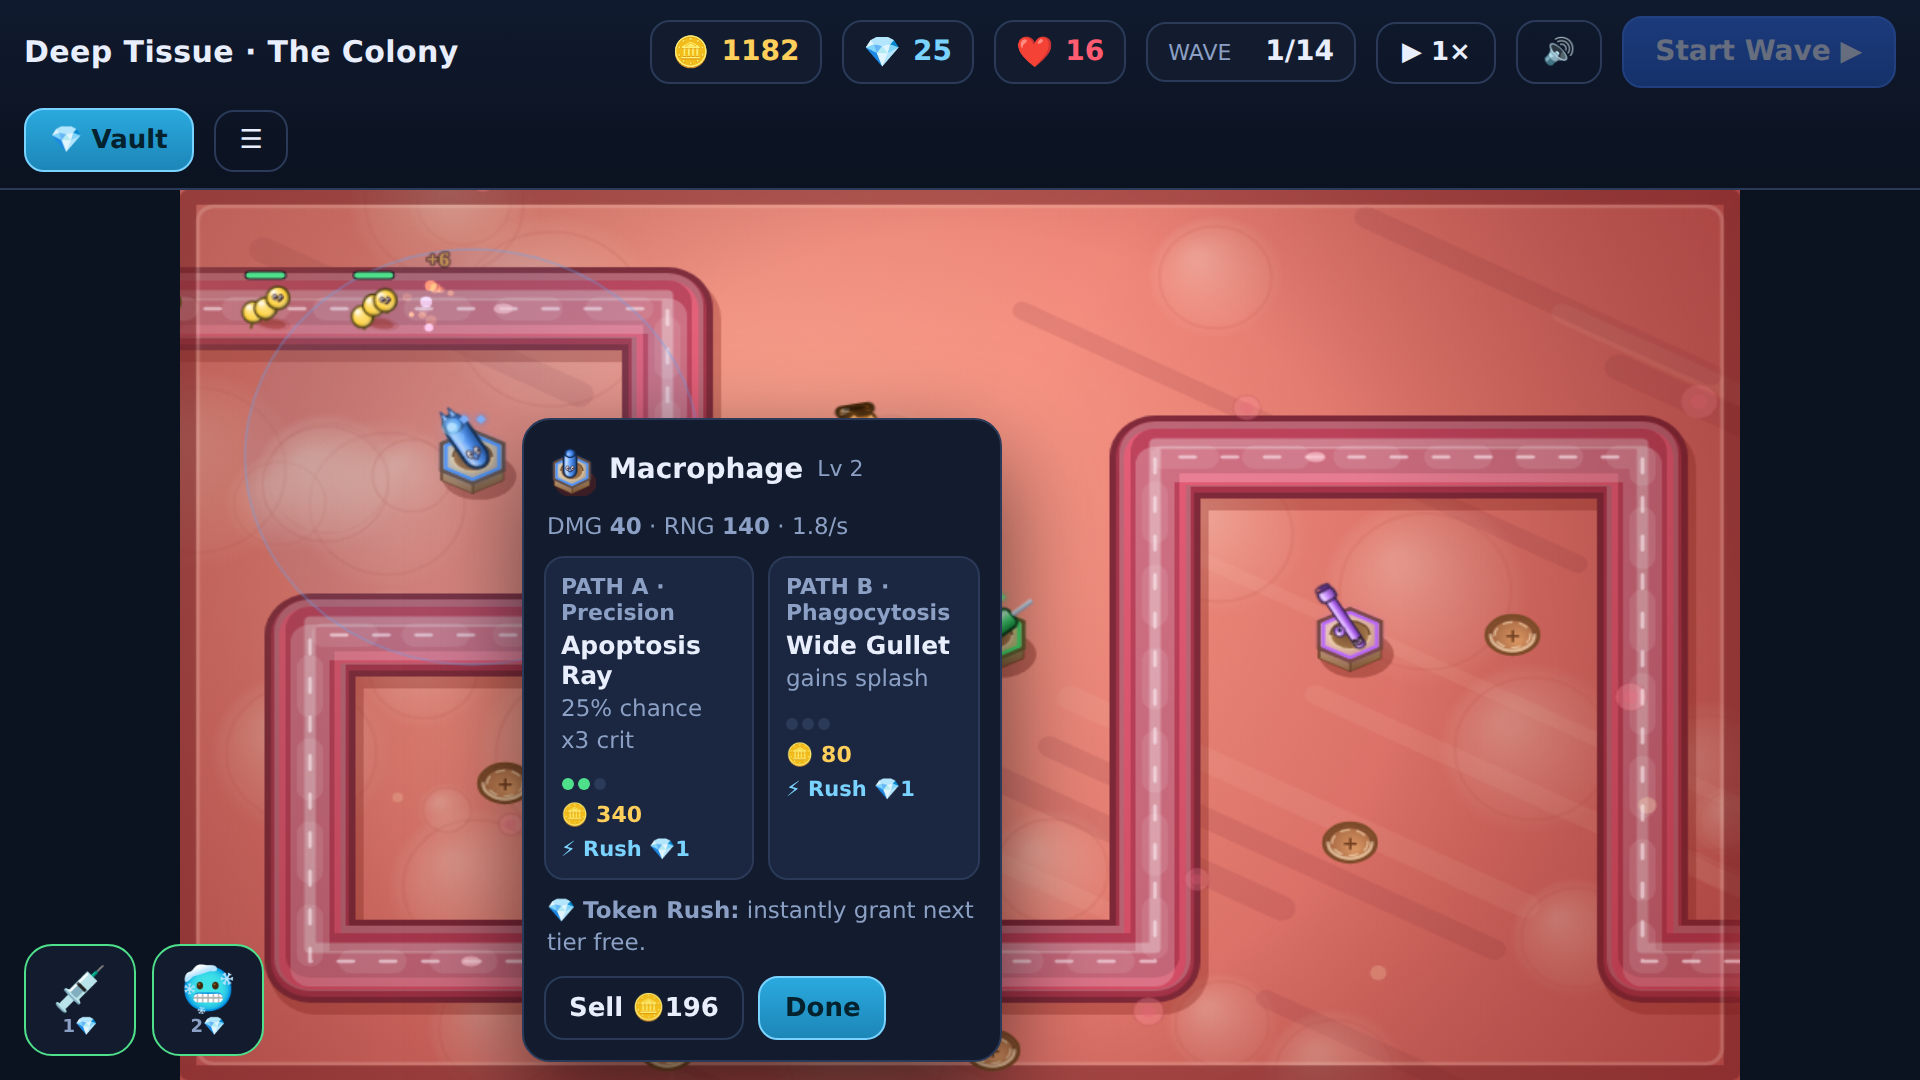
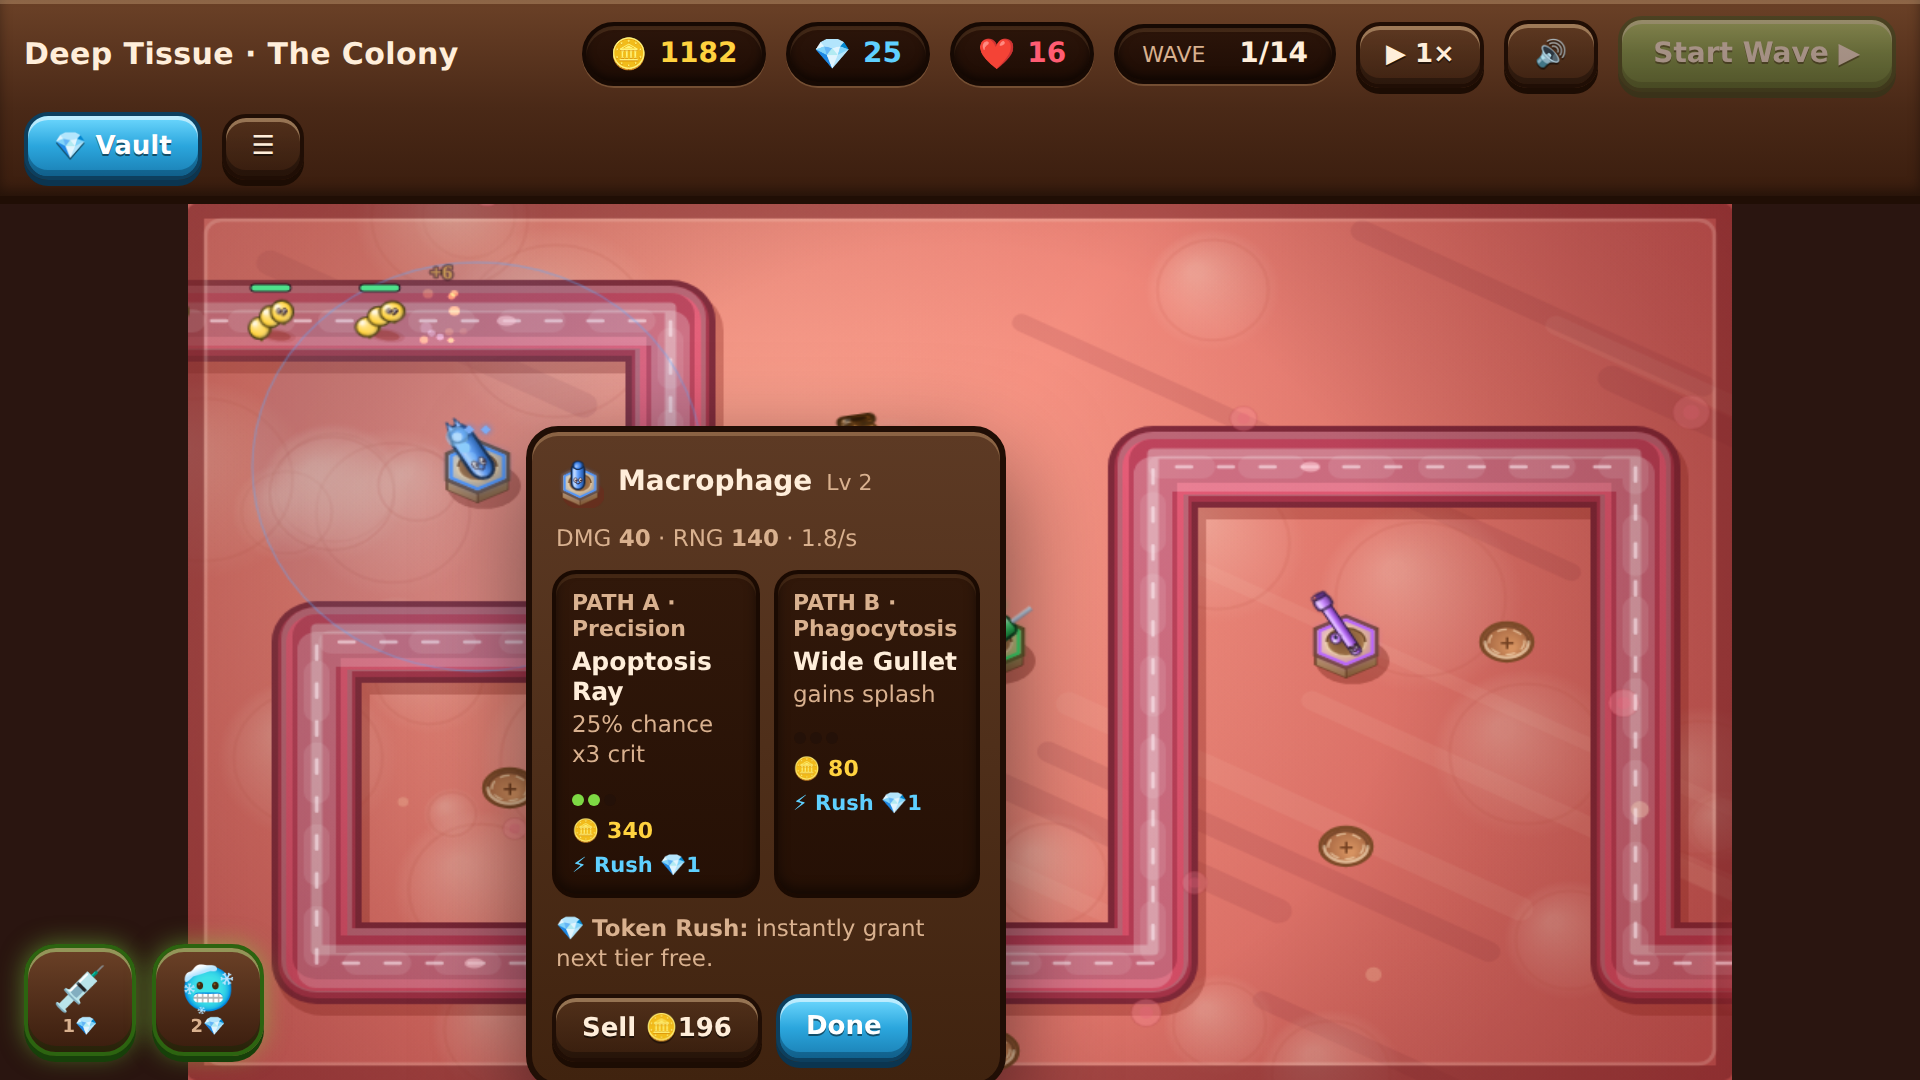
Painted game-chrome UI: carved panels, glossy buttons, badge counters
Fifth pass of the art-gap program - the UI no longer reads as a
website. Pure-CSS skeuomorphic chrome in the CoC style:

- HUD is a carved wooden bar with bevel highlights; stat counters are
  inset badge pills; the wave preview matches
- Buttons are glossy 3D with top shine, inner bevel, and a press-down
  ledge: green primary (Start Wave/Deploy), gold, and blue token
  variants plus carved ghost buttons
- Modals are carved wooden panels with embossed ribbon-plate headers,
  gold section headings, and gold-trimmed story cards; shop items,
  build cards, and upgrade paths are inset carved slots; tags are gold
  badges; toasts and ability buttons match the chrome
- Warm palette variables replace the old dark-navy web theme

All mobile layout checks pass (no overflow portrait/landscape, touch
flow intact), plus full regression and Play suites. Store screenshots
regenerated. SW cache bumped to v12.

Claude-Session: https://claude.ai/code/session_01CBLR6UDHsp9bXg6zzSDAZ5

diff --git a/tower-defense/index.html b/tower-defense/index.html
@@ -21,54 +21,75 @@
 <link href="https://fonts.googleapis.com/css2?family=Outfit:wght@300;400;500;600;700;800&display=swap" rel="stylesheet">
 <style>
   :root{
-    --bg:#0b1220; --panel:#131c2e; --panel2:#1b2740; --line:#2a3a58;
-    --ink:#e8eefc; --muted:#8ba0c4; --gold:#ffcf5c; --token:#7ad3ff;
-    --hp:#ff5c72; --good:#4fe08b; --accent:#5fa9ff; --danger:#ff6b6b;
-    --path:#2b3554; --slot:#22406b;
+    --bg:#2a1510; --panel:#4a2c1c; --panel2:#5d3a24; --line:#241108;
+    --edge:rgba(255,210,150,0.28); --carve:rgba(30,12,4,0.55);
+    --ink:#ffeeda; --muted:#d9b18f; --gold:#ffd23f; --token:#5fd0ff;
+    --hp:#ff5c72; --good:#7ed944; --accent:#5fa9ff; --danger:#ff6b6b;
   }
   *{box-sizing:border-box; -webkit-tap-highlight-color:transparent}
-  html,body{margin:0;height:100%;background:var(--bg);color:var(--ink);
+  html,body{margin:0;height:100%;background:#2a1510;color:var(--ink);
     font-family:'Outfit',system-ui,sans-serif;overflow:hidden;user-select:none}
   #app{position:fixed;inset:0;display:flex;flex-direction:column}
   /* Top HUD */
-  #hud{display:flex;align-items:center;gap:10px;padding:8px 12px;background:linear-gradient(180deg,#101a2e,#0b1220);
-    border-bottom:1px solid var(--line);flex-wrap:wrap}
-  .stat{display:flex;align-items:center;gap:6px;background:var(--panel);border:1px solid var(--line);
-    border-radius:10px;padding:6px 10px;font-weight:600;font-size:14px;min-width:0}
+  #hud{display:flex;align-items:center;gap:10px;padding:8px 12px;
+    background:linear-gradient(180deg,#6b4127 0%,#4a2917 55%,#3a1d0e 100%);
+    border-bottom:4px solid #200e05;
+    box-shadow:inset 0 2px 0 rgba(255,220,170,0.25), inset 0 -3px 6px rgba(0,0,0,0.35);
+    flex-wrap:wrap}
+  .stat{display:flex;align-items:center;gap:6px;
+    background:linear-gradient(180deg,#2c150a,#1e0c04);
+    border:2px solid #160903;border-radius:999px;padding:5px 12px;
+    box-shadow:inset 0 -2px 4px rgba(0,0,0,0.5), inset 0 2px 0 rgba(255,200,130,0.12), 0 1px 0 rgba(255,210,150,0.2);
+    font-weight:800;font-size:14px;min-width:0}
   .stat .ico{font-size:15px}
   .stat.gold{color:var(--gold)} .stat.token{color:var(--token)} .stat.lives{color:var(--hp)}
   .stat small{color:var(--muted);font-weight:500;font-size:11px}
-  #wavePreview{display:flex;align-items:center;gap:8px;background:var(--panel);border:1px solid var(--line);
-    border-radius:10px;padding:4px 10px;min-height:32px}
+  #wavePreview{display:flex;align-items:center;gap:8px;
+    background:linear-gradient(180deg,#2c150a,#1e0c04);border:2px solid #160903;
+    border-radius:999px;padding:4px 12px;min-height:32px;
+    box-shadow:inset 0 -2px 4px rgba(0,0,0,0.5), inset 0 2px 0 rgba(255,200,130,0.12)}
   #wavePreview:empty{display:none}
   #wavePreview .wp{display:flex;align-items:center;gap:3px;font-size:12px;font-weight:700;color:var(--muted)}
   #wavePreview img{display:block}
   #levelName{font-weight:700;font-size:15px;margin-right:auto;letter-spacing:.2px}
-  .btn{cursor:pointer;border:1px solid var(--line);background:var(--panel2);color:var(--ink);
-    border-radius:10px;padding:7px 12px;font-family:inherit;font-weight:600;font-size:13px;transition:.15s}
-  .btn:hover{border-color:var(--accent);transform:translateY(-1px)}
-  .btn:active{transform:translateY(0)}
-  .btn.primary{background:linear-gradient(180deg,#2f6df0,#215bd0);border-color:#3f7dff}
-  .btn.gold{background:linear-gradient(180deg,#caa23c,#a8842b);border-color:#e6c261;color:#1a1405}
-  .btn.token{background:linear-gradient(180deg,#2aa9de,#1d86b8);border-color:#7ad3ff;color:#04212e}
-  .btn.ghost{background:transparent}
-  .btn:disabled{opacity:.4;cursor:not-allowed;transform:none}
+  .btn{cursor:pointer;border:2px solid #200e05;color:var(--ink);
+    background:linear-gradient(180deg,#7a4b2c 0%,#5d3520 50%,#4a2614 100%);
+    border-radius:12px;padding:7px 13px;font-family:inherit;font-weight:800;font-size:13px;
+    text-shadow:0 1px 0 rgba(0,0,0,0.5);
+    box-shadow:inset 0 2px 0 rgba(255,220,170,0.4), inset 0 -3px 0 rgba(0,0,0,0.3), 0 3px 0 #1c0c03;
+    transition:.1s}
+  .btn:hover{filter:brightness(1.12)}
+  .btn:active{transform:translateY(3px);box-shadow:inset 0 2px 0 rgba(255,220,170,0.35), inset 0 -2px 0 rgba(0,0,0,0.25), 0 0 0 #1c0c03}
+  .btn.primary{background:linear-gradient(180deg,#8fe14f 0%,#57b32a 50%,#3d8f18 100%);border-color:#1e4d0b;
+    box-shadow:inset 0 2px 0 rgba(255,255,255,0.5), inset 0 -3px 0 rgba(0,60,0,0.3), 0 3px 0 #17400a;color:#fff}
+  .btn.gold{background:linear-gradient(180deg,#ffe066 0%,#f4b52e 50%,#d1881c 100%);border-color:#7a4d0d;
+    box-shadow:inset 0 2px 0 rgba(255,255,255,0.6), inset 0 -3px 0 rgba(110,60,0,0.35), 0 3px 0 #5e3c09;color:#4a2a05;text-shadow:0 1px 0 rgba(255,240,190,0.6)}
+  .btn.token{background:linear-gradient(180deg,#6fd9ff 0%,#2ba6dd 50%,#1a7fb3 100%);border-color:#0d3f5e;
+    box-shadow:inset 0 2px 0 rgba(255,255,255,0.55), inset 0 -3px 0 rgba(0,40,70,0.35), 0 3px 0 #0b3550;color:#fff}
+  .btn.ghost{background:linear-gradient(180deg,rgba(90,55,32,0.6),rgba(50,26,12,0.6))}
+  .btn:disabled{opacity:.45;cursor:not-allowed;transform:none;filter:grayscale(0.4)}
   /* Stage */
   #stageWrap{flex:1;position:relative;display:flex;align-items:center;justify-content:center;overflow:hidden}
   #stage{background:#e56a5e;touch-action:none;max-width:100%;max-height:100%}
   /* Build/upgrade popover */
-  #popover{position:absolute;z-index:30;width:240px;background:var(--panel);border:1px solid var(--line);
-    border-radius:14px;padding:10px;box-shadow:0 18px 50px rgba(0,0,0,.6);display:none}
+  #popover{position:absolute;z-index:30;width:240px;
+    background:linear-gradient(180deg,#5d3a24,#40230f);
+    border:3px solid #200e05;border-radius:16px;padding:10px;
+    box-shadow:inset 0 2px 0 var(--edge), 0 18px 50px rgba(0,0,0,.55);display:none}
   #popover h4{margin:2px 0 8px;font-size:14px;display:flex;align-items:center;gap:7px}
   .tw-grid{display:grid;grid-template-columns:1fr 1fr;gap:7px}
-  .tw{cursor:pointer;background:var(--panel2);border:1px solid var(--line);border-radius:10px;padding:8px;text-align:center;transition:.12s}
-  .tw:hover{border-color:var(--accent);transform:translateY(-1px)}
+  .tw{cursor:pointer;background:linear-gradient(180deg,#31180a,#251005);
+    border:2px solid #1a0a02;border-radius:12px;padding:8px;text-align:center;transition:.12s;
+    box-shadow:inset 0 -3px 6px rgba(0,0,0,0.45), inset 0 2px 0 rgba(255,200,130,0.1)}
+  .tw:hover{border-color:var(--gold);transform:translateY(-1px)}
   .tw .em{font-size:22px} .tw .nm{font-size:11.5px;font-weight:600;margin-top:2px}
   .tw .cost{font-size:11px;color:var(--gold);font-weight:700}
   .tw.disabled{opacity:.45;pointer-events:none}
   .up-row{display:flex;gap:7px;margin-top:7px}
-  .up-path{flex:1;background:var(--panel2);border:1px solid var(--line);border-radius:10px;padding:8px;cursor:pointer;transition:.12s}
-  .up-path:hover{border-color:var(--accent)}
+  .up-path{flex:1;background:linear-gradient(180deg,#31180a,#251005);
+    border:2px solid #1a0a02;border-radius:12px;padding:8px;cursor:pointer;transition:.12s;
+    box-shadow:inset 0 -3px 6px rgba(0,0,0,0.45), inset 0 2px 0 rgba(255,200,130,0.1)}
+  .up-path:hover{border-color:var(--gold)}
   .up-path .pt{font-size:11px;color:var(--muted);font-weight:600}
   .up-path .pn{font-size:12.5px;font-weight:700;margin:2px 0}
   .up-path .pc{font-size:11px;color:var(--gold);font-weight:700}
@@ -80,29 +101,39 @@
   .pop-actions{display:flex;gap:7px;margin-top:9px}
   /* Modal */
   .modal-bg{position:fixed;inset:0;background:rgba(5,9,18,.78);z-index:60;display:none;align-items:center;justify-content:center;padding:16px}
-  .modal{width:min(560px,96vw);max-height:92vh;overflow:auto;background:linear-gradient(180deg,#16233c,#111a2c);
-    border:1px solid var(--line);border-radius:18px;padding:22px;box-shadow:0 30px 90px rgba(0,0,0,.7)}
-  .modal h2{margin:0 0 4px;font-size:22px} .modal h3{margin:16px 0 8px;font-size:16px;color:var(--accent)}
-  .modal p{color:#cdd9f0;line-height:1.5;font-size:14px}
-  .story-card{background:rgba(95,169,255,.08);border-left:3px solid var(--accent);padding:12px 14px;border-radius:8px;margin:10px 0;font-size:14px;line-height:1.55;color:#dbe6fb}
-  .shop-item{display:flex;align-items:center;gap:12px;background:var(--panel);border:1px solid var(--line);border-radius:12px;padding:12px;margin:8px 0}
+  .modal{width:min(560px,96vw);max-height:92vh;overflow:auto;
+    background:linear-gradient(180deg,#5d3a24 0%,#472a15 45%,#38200e 100%);
+    border:4px solid #200e05;border-radius:20px;padding:22px;
+    box-shadow:inset 0 3px 0 var(--edge), inset 0 -6px 12px rgba(0,0,0,0.35), 0 30px 90px rgba(0,0,0,.7)}
+  .modal h2{margin:0 0 6px;font-size:23px;font-weight:800;text-shadow:0 2px 0 rgba(0,0,0,0.45);
+    display:inline-block;padding:2px 14px;border-radius:10px;
+    background:linear-gradient(180deg,#8a5430,#5d3018);box-shadow:inset 0 2px 0 rgba(255,220,170,0.35), 0 2px 0 #1c0c03}
+  .modal h3{margin:16px 0 8px;font-size:16px;color:var(--gold);text-shadow:0 1px 0 rgba(0,0,0,0.5)}
+  .modal p{color:#f0d9c0;line-height:1.5;font-size:14px}
+  .story-card{background:rgba(30,12,4,0.5);border-left:4px solid var(--gold);padding:12px 14px;border-radius:10px;margin:10px 0;font-size:14px;line-height:1.55;color:#ffe9d0;box-shadow:inset 0 2px 6px rgba(0,0,0,0.4)}
+  .shop-item{display:flex;align-items:center;gap:12px;
+    background:linear-gradient(180deg,#31180a,#251005);
+    border:2px solid #1a0a02;border-radius:14px;padding:12px;margin:8px 0;
+    box-shadow:inset 0 -3px 6px rgba(0,0,0,0.45), inset 0 2px 0 rgba(255,200,130,0.12)}
   .shop-item .big{font-size:28px}
   .shop-item .grow{flex:1} .shop-item .grow b{font-size:15px} .shop-item .grow div{font-size:12px;color:var(--muted)}
   .center{text-align:center} .muted{color:var(--muted)} .gold{color:var(--gold)} .token{color:var(--token)}
-  .tag{display:inline-block;background:var(--panel2);border:1px solid var(--line);border-radius:999px;padding:2px 9px;font-size:11px;color:var(--muted);margin:2px}
+  .tag{display:inline-block;background:linear-gradient(180deg,#ffe066,#dfa22a);border:1px solid #7a4d0d;border-radius:999px;padding:2px 10px;font-size:11px;font-weight:800;color:#4a2a05;margin:2px;box-shadow:inset 0 1px 0 rgba(255,255,255,0.5)}
   #toast{position:absolute;top:14px;left:50%;transform:translateX(-50%);z-index:50;display:flex;flex-direction:column;gap:6px;align-items:center;pointer-events:none}
-  .toast{background:rgba(20,30,50,.95);border:1px solid var(--line);border-radius:10px;padding:8px 14px;font-size:13px;font-weight:600;
+  .toast{background:linear-gradient(180deg,#5d3a24,#3a1e0d);border:2px solid #200e05;border-radius:12px;padding:8px 15px;font-size:13px;font-weight:800;color:var(--ink);text-shadow:0 1px 0 rgba(0,0,0,0.5);box-shadow:inset 0 2px 0 var(--edge), 0 4px 12px rgba(0,0,0,0.5);
     animation:pop .3s ease, fade .4s ease 1.6s forwards}
   @keyframes pop{from{transform:translateY(-10px);opacity:0}to{transform:translateY(0);opacity:1}}
   @keyframes fade{to{opacity:0;transform:translateY(-8px)}}
   #startBtn{font-size:14px;padding:9px 16px}
   .foot{margin-top:14px;font-size:11.5px;color:var(--muted);text-align:center}
   .abilities{position:absolute;left:12px;bottom:12px;z-index:20;display:flex;gap:8px}
-  .ability{width:56px;height:56px;border-radius:14px;background:var(--panel);border:1px solid var(--line);
+  .ability{width:56px;height:56px;border-radius:16px;
+    background:linear-gradient(180deg,#6b4127,#3a1d0e);
+    border:2px solid #200e05;box-shadow:inset 0 2px 0 var(--edge), inset 0 -3px 0 rgba(0,0,0,0.35), 0 3px 0 #1c0c03;
     display:flex;flex-direction:column;align-items:center;justify-content:center;cursor:pointer;position:relative;overflow:hidden}
   .ability .ae{font-size:22px} .ability .al{font-size:9px;color:var(--muted);font-weight:700}
-  .ability .cd{position:absolute;inset:0;background:rgba(8,12,22,.72);display:flex;align-items:center;justify-content:center;font-weight:800;font-size:16px}
-  .ability.ready{border-color:var(--good)}
+  .ability .cd{position:absolute;inset:0;background:rgba(20,8,2,.78);display:flex;align-items:center;justify-content:center;font-weight:800;font-size:16px}
+  .ability.ready{border-color:#2c6410;box-shadow:inset 0 2px 0 rgba(200,255,150,0.45), inset 0 -3px 0 rgba(0,50,0,0.3), 0 3px 0 #17400a, 0 0 12px rgba(126,217,68,0.5)}
   @media (max-width:560px){#levelName{font-size:13px}.stat{padding:5px 8px;font-size:13px}.btn{padding:6px 9px;font-size:12px}}
 </style>
 </head>

diff --git a/tower-defense/sw.js b/tower-defense/sw.js
@@ -1,6 +1,6 @@
 /* Immunopolis service worker: cache-first app shell for offline play.
    Bump CACHE_VERSION on every release that changes any shell file. */
-const CACHE_VERSION = 'immunopolis-v11';
+const CACHE_VERSION = 'immunopolis-v12';
 const SHELL = [
   './',
   './index.html',
